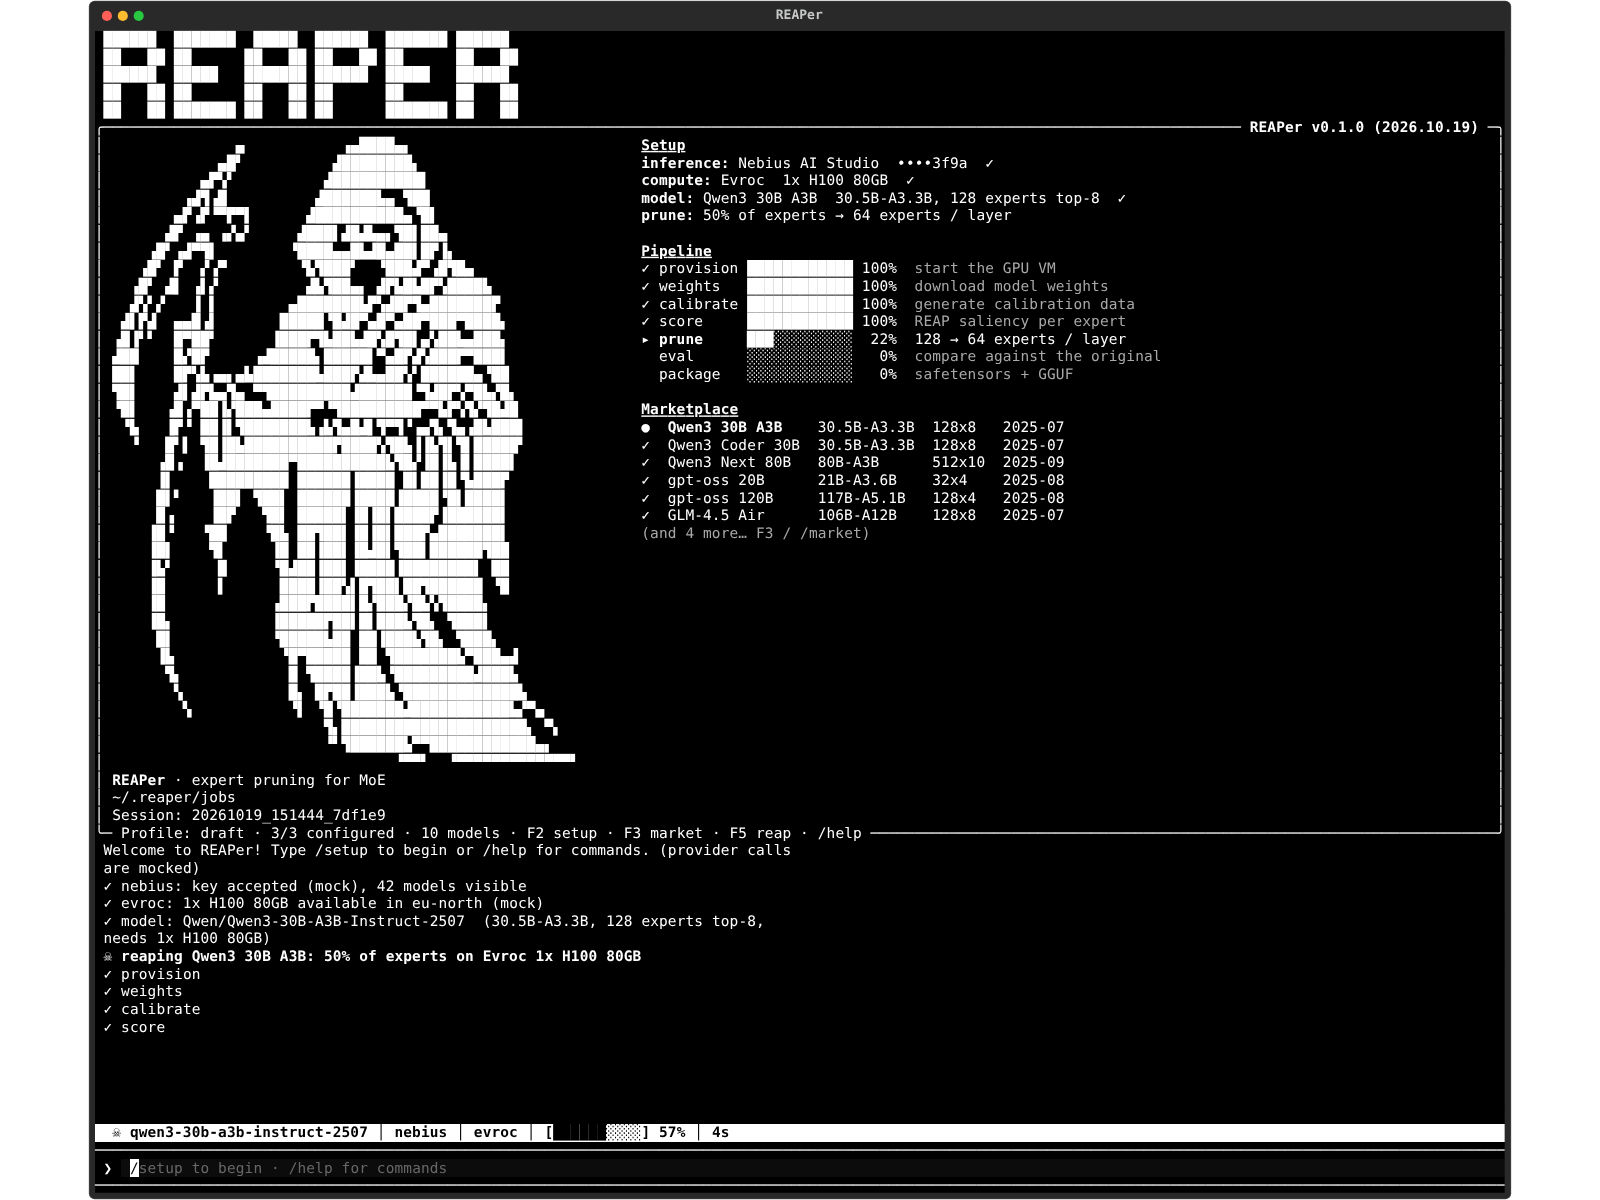
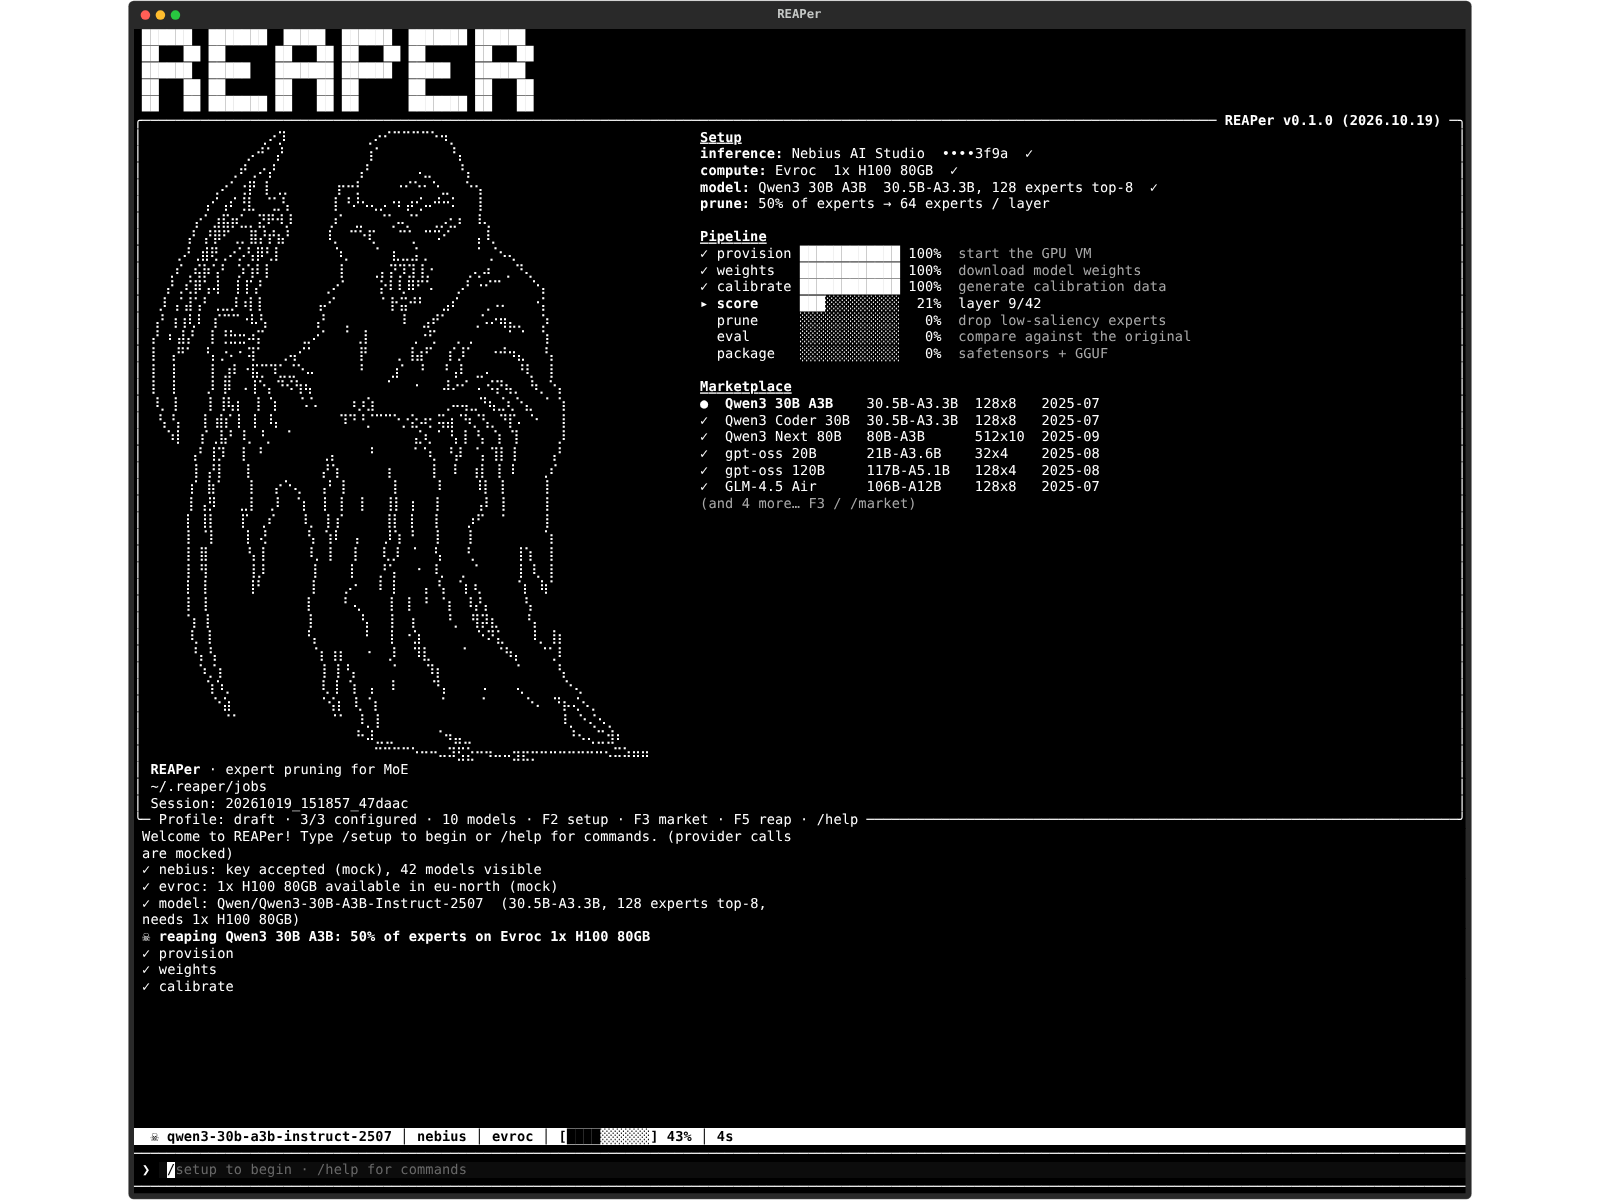
REAPer: lighter line-art reaper with a sharper skull
Trace only the white strokes inside the robe plus its contour in braille dots,
so the terminal's black reads as the robe, and enlarge the skull before tracing.

Claude-Session: https://claude.ai/code/session_01VGAZs9gHQg7S7YAJ4xnDTB

Changed region(s): [[0.0312, 0.0, 0.9688, 1.0], [0.4688, 0.0, 0.5312, 0.0308]]

diff --git a/reaper/reaper_tui/art.py b/reaper/reaper_tui/art.py
@@ -1,5 +1,7 @@
-"""Logo art. The reaper is traced from a black silhouette with quadrant blocks
-(2x2 pixels per cell); scratch tooling is not kept, regenerate from the PNG if needed."""
+"""Logo art. The reaper is traced from a black silhouette in braille dots (2x4 per
+cell): only the white strokes inside the robe and its outer contour are drawn, so
+the terminal's black is the robe. The skull is enlarged 1.7x before tracing to keep
+the face readable. Regenerate from the source image if it needs changing."""
 
 BANNER = """\
 ██████  ███████  █████  ██████  ███████ ██████
@@ -8,73 +10,76 @@ BANNER = """\
 ██   ██ ██      ██   ██ ██      ██      ██   ██
 ██   ██ ███████ ██   ██ ██      ███████ ██   ██"""
 
-# 53 x 36, used when the terminal is tall enough
+# 60 x 38, used when the terminal is tall enough
 REAPER_LARGE = """\
-              ▄           ▗▄████▄▖
-            ▄█▘          ▟████████▖
-          ▄▛▚▘          ▟██████████▌
-        ▗▟▜▗█          ▟██████▙▄ ▜██
-       ▄▛▗▛▝▀▛▀▌      ▟██████████▄▝█▌
-      ▟▛ ▗▄ ▗▞▄▘     ▟███▌▟█▟▙▄▖▜█▌██▄
-    ▗█▘▗▟▀▜▌        ▝████▄▄█▙▟█▄██▌█▛▐▖
-   ▗█▘ ▛  ▞▗▀        ▝▙▜███▘  ▝███▟▀▗█▜█▄
-  ▗█▘ ▟▌ ▗▌▞          ▟▙▜██▄▖ ▟▛▙█▙█▛▚████▙
-  ▟▚▘▞   ▐ ▌        ▄███████▙▛▚▟█▛▜▄███████▛
- ▟▌▛▟  ▄▄█▗▌       █████▝█▟█▀▄█▀▄██▀███▀████▖
-▗█▐▘▘  █▀██▘      ▐███▛▜▙██▙▟█▚█▜█▌▄▚██▙▄███▖
-▟██    █▞█▛     ▗▟█████▖█████▌▀▄█▛▟▚███▛▀███▌
-██▌    █▛▚▙▗▄▖▄▙███████▙███▛▟▙▄██▚▘██████▄▝██
-▜█▌    ▟▌▟▛▙▄▜▄ ▀▜█████████▟██████▝▜▟█▛▚▀█▙▞█▖
-▝█▌   ▗█▗▀██▐▞███▄████▛▀▝▜█████████▀▀▙▛▚▜▞▜█▟█
- ▝▙   ▐▛▝ ██▐▌▜███████▙▗▙▜▄█▟▌▜▀▜▝▗▄▜▖▜▄▗█▙███▌
-  ▝   █▘▌ ▜█▐█▙██████████▛████▚▜█▙▐▐▙▜▌▜▌█████▘
-     ▗█▗  ▐█▟███████▀██████████▙▜█▞▐█▐▙▐▌████▌
-     ▐▌    █████████ ██████▐████ █▌██▐█▝▙███▛
-     █▌▘   ▐██▌ ▜██▌ ██████▐████▐████▝█▌████▌
-     █▗    ▐█▛   ▜█▌ █████▌▐█▐█▌████▛▐██████▌
-    ▐█▝   ▝██    ▝█▙ ██▜██▌▐█▐█▌███▛▄███████▌
-    ▐█▌    ▜▌     ▐█ ██▐██▌▐█▟█▌▜██▌██████▜██
-    ▐▙▘     █     ▝█▟██▐██▌▐████▐████████▌ ██
-    ▐█      ▌      ████▐██▚▌█▜██▌██▜██████ ▝█
-    ▐█            ▗███▛████▌█▞███▞█▙▚▜████▖
-    ▐█▖           ▐█████▛██▌█▌███▙▜█▖ ▜███▌
-     █▌           ▝█████▙██ ██▐███▙▜█▖ ▜███▖
-     ▐▙            ▝█▀█████ ██ ▜███████▙▀███▄▟
-      ▜▖            █ ▜████▐██▙▝█████████▟███▙
-       ▚            █▖ █▛██▐███▙▝█████████████▙
-        ▚           ▝▌ ▝█▝███████▟███████████▙▞▀▄
-                        ▜▖█████████████████████▖ ▀▖
-                        ▝▘▜██████▙▀▀████████████▄▖
-                                ▝▀▀▘  ▝▀▀▀▀▀▀▀▀▀▀▀▀▀▘"""
+              ⢀⠔⡹          ⢀⠔⠊⠉⠉⠉⠉⠑⠲⡀
+            ⡠⠚⠁⡜          ⢰⠁        ⠘⡄
+          ⢀⠞⢀⠔⡜          ⢠⠃     ⠠⣀   ⠘⡄
+        ⢀⠔⠁⢐⡟ ⡇⢀⡀      ⡖⠒⡃    ⠐⠊⠑⠂⠑⣀  ⠑⢢
+       ⢠⠊⢠⠎⢘⣇ ⠈⣁⢣      ⡇⠘⠜⠢⢄⡠⠐⠆⡴⢊⠤⠚⠒⠅  ⢸
+      ⡔⠁⣰⣯⡶⣁⡀⣝⠟⠺⡸     ⡰⠁ ⣀  ⠈⢁⠤⡈⠁ ⢀⡠⣂⠆ ⠸⢄
+     ⡜ ⡜⡿⠋⢀⡀⣿⡜⡞⣦⠃    ⠸⡀ ⠉⠑⢏   ⠉⢁ ⠉⠩⠊   ⢠⠸⡀
+   ⢀⠜⢀⣾⢟⢀⠔⡡⢣⡿⢃⡇       ⠱⡀   ⠁ ⣆⣀⣨⢀      ⠈ ⡈⠢⢄
+  ⢀⠎⢀⢮⡷⢡⠃ ⡱⢱⠇⡇         ⡇   ⢀⡄⡝⡹⣹⢸⡐    ⢀⢄⠴  ⡀⠙⢄
+  ⡜⢀⢎⡿⢡⢼  ⡇⡏⡜        ⢀⠔⠁    ⡕⠇⢇⠿⠋⠡   ⡠⠃⠐⠊⠉    ⠑⡄
+ ⡸ ⡌⣼⢡⠃⢀⣀⡸⠰⡇⡇       ⡤⠊      ⠁⡗⣭⠚⠃  ⣠⠎   ⢀⠠⠄   ⠐⡅
+⢠⠃⢰⢰⢇⠇ ⡎⠉⠉⠐⠧⢣      ⢠⠃  ⡀      ⠸  ⣠⠞⠁   ⢀⠡⠔⢶⣄⡀  ⡱
+⡜ ⠆⣼⡜  ⡇⢘⣓⣒⠴⡍     ⣀⠔⠁  ⠁⢀⡇     ⢀⠐⢋  ⢀ ⡀    ⠁⠈  ⢱
+⡇ ⢠⠛⠁ ⠘⡄⡐⠄⠂⢽⠁  ⢀⢤⠊⠁      ⡟    ⡀⢸⣴⠋  ⡎⡸⠁  ⠐⠚⠲⣄  ⠘⡄
+⡇ ⢸    ⢸ ⣰⠇⠐⣯⡉⠹⣁⣈⠑⠤      ⠃   ⣰⠁ ⠘  ⠘⢠⠇ ⣀⠄   ⠘⢇  ⡇
+⡇ ⢸    ⡸ ⡿ ⠠⢸⠑⡄⠙⠪⢳⢦          ⠁  ⠐   ⠼⠔⠊ ⠄⠪⡝⢦⡀ ⠳⡀⠑⡄
+⠸⡀⢸    ⡇⢸⢧⡆ ⢸ ⢱   ⠡⠡    ⠰⡰⣱         ⢀⠤⢤⣀⠙⢦⣈⢆⠑⣄ ⠈ ⢱
+ ⢣⠘⡄  ⢸ ⣾⡎⢸ ⢸ ⠸⡄        ⠹⠙⠘⡈⠉⠉⠑⡐⣕⠴⡂⢭⣴⠈⠳⡈⢣⡀⠙⡏⠄⠈⠂  ⢸
+  ⠱⡇  ⡎⢀⣧⠃⠸⡀⠘⡀ ⠈                ⣌⢆⠈ ⢣⢸ ⢣ ⢱ ⢹     ⡸
+     ⢠⠃⢸⡹  ⡇ ⠃       ⢀⡄    ⠃    ⠈⠈⢆ ⠘⡼ ⠈⡄⢹⡇⢸    ⢠⠃
+     ⢸ ⡜⡇  ⢸         ⡜⢱      ⡆    ⢸  ⠇ ⢰⡇ ⡇⠸   ⢀⠎
+     ⡎ ⣷⠁   ⡇  ⡔⠑⢄  ⢠⠃⢸      ⡇    ⠸    ⠸⡇ ⡇    ⢸
+     ⡇⢠⡻   ⣀⡇ ⢀⠇ ⠈⡆ ⢸ ⢸  ⡇  ⢸⡇ ⡆  ⡇    ⢠⠇ ⡇    ⢸
+    ⢸ ⢸⡇   ⡏ ⢀⠎   ⠸⡀ ⡇⡎     ⢸⡇ ⡇  ⡇   ⡰⠋  ⠁    ⢸
+    ⢸ ⠈⡇   ⢸ ⢜     ⢣ ⢱⠇ ⢠   ⡸⢱ ⠃  ⡇   ⡇        ⠈⡆
+    ⢸ ⣿     ⢣⢸     ⠸⡀⢸  ⢸   ⢇⡸ ⠈  ⢣   ⢃     ⢸⢱  ⡇
+    ⢸ ⢻     ⢸⡸      ⡇   ⢸   ⡘⢡  ⠐ ⠸⡀ ⢀ ⠁    ⢸ ⢇ ⡇
+    ⢸ ⢸     ⢸⠃      ⡇   ⡠⠂  ⠇⢸   ⢠ ⢣ ⠈⡆⢆    ⠈⡆ ⢷⠁
+    ⢸ ⢸            ⢸    ⠃⢄   ⢸ ⢸ ⠘ ⠈⡆ ⠸⡜⡄    ⢣
+    ⠈⡆⢸            ⢸      ⢣  ⢸  ⡆   ⠘⡀ ⢻⡽⣆   ⠘⡄
+     ⢇ ⡇           ⠘⡄     ⠘  ⢸ ⠐⣱       ⠑⠝⣅   ⠸⡀⢸⡆
+     ⠘⡄⢣            ⠈⡆⢰⡆  ⠐  ⡸  ⠹⣇    ⠁   ⠈⠳⡄  ⠈⢁⠇
+      ⠱⡈⡆            ⡇⢸⠘⡄    ⠁   ⠹⡆         ⠁    ⢣
+       ⢱⠱⡀           ⢇⢸ ⢱ ⢠  ⠇    ⠙⡄    ⠄   ⢄     ⠑⢄
+        ⠑⣵           ⠈⢪⡆ ⢇⠈⡆       ⠈    ⠈     ⠑⠄ ⠙⡦⢌⠢⡀
+         ⠈⠁           ⠈⠁ ⠸⡀⡇                      ⠸⡀⠑⢌⠢⡀
+                          ⠓⠼⣀⣀     ⠈⠲⣤⣀            ⠘⠢⢄⣉⣺⠆
+                              ⠉⠉⠉⠉⠑⠒⠒⠤⠽⣫⣕⠒⠲⠤⠤⣲⣖⡒⠒⠒⠒⠒⠒⠒⠒⠢⠭⠵⠶⠶"""
 
-# 42 x 29
+# 48 x 30
 REAPER = """\
-           ▗         ▗▟███▙▖
-         ▄█▘        ▟███████▙
-       ▗▟▚▛        ▗█████▛▀▜█▌
-      ▟▀█▝█▖▌     ▄███████▙▖▜█
-    ▗█▘▗▄ ▄▗▌    ▟███▐█▞▄▙▜█ █▙
-   ▗▛ ▟▀▐▘▖      ▜███▙█▀▀▙██▐▛▗▙▖
-  ▗▛ ▟▘ ▌▐        ▜███▖  ▟███▄████▄
- ▗▛▖▞▀ ▗▘▌      ▗▟█████▙▛▚█████████▙
- ▟▐▗▘▗▄▟▄▌     ▗████▜▙█▘▟▛▙██▜██▀███▖
-▐█▌  ▐▛▜▜     ▗▟███▜▟█▙█▙▛▚█▚▚███▄██▌
-██▘  ▝█▛▙   ▄▟█████▄███▜ ▐█▙▌▟██▙▄▀█▙
-▜█    █▗▛▌▛█ ▀████████▚████▛▐██▛▀▜▙▞█
-▝█   ▐▌▞█▌▙▐█▙▟███▛▀▀███████▛▀▜▞▘▚▛██▙
- ▝▖  ▟▘ ▜▌█▞██████▙▟▟██▟▄▜█▖▟▙▙▝▙▐████
-    ▗▛▝ ▐████████████████▄▜█▝▟▞▌▐▞███▛
-    ▐▌   ███████▌▜████▜███▌█▗█▌█▐▌███
-    █▘   ▐█▛ ▜██ ▐████▐███▚███▌██▙██▌
-    █    ▟█▘  ▜█ ▐████▐▌██▐███▚█████▌
-   ▗█    █▌    █▖█████▐█▐█▐██▚██████▙
-   ▐█    ▝▌    ▐▌████▛▝███▞██▟████ ▜█
-   ▐█     ▘    ▐███▜█▙▌███▙▜██████▌▝█
-   ▐█          ▐██▙███▌█▐██▞█▞▝███▙
-    █          ███████▌█▌█████▖▝███▖
-    ▐▌         ▝██████▌█▌▐█████▙▞███▖▗
-     █          ▐▌▜███▜██▖▜██████▙███▌
-     ▝▙         ▐▌ ███▟███▖███████████▙
-                 ▘ ▝▌█████████████████▖▀▄
-                    ▀▐██████▜██████████▖
-                        ▝▀▀▀▀ ▝▀▀▀▀▀▀▀▀▀▀▀"""
+           ⡠⢔⠇       ⢀⠔⠊⠉⠉⠉⠉⠢⡀
+         ⡠⢊⢠⠃       ⢀⠎       ⠑⡄
+       ⢠⠊⢠⠃⡇      ⢀⣀⠎   ⠠⠄⠥⠢  ⠸⣀
+     ⢀⠔⢁⠎⣸⣀⠑⡊⡇    ⢸⠐⠕⠤⣀⠐⠄⠴⡠⠐⠛  ⢸
+    ⢠⠊⣠⣯⠞⢤⡰⢟⣊⠇   ⢠⠃⣀⡤⣀ ⠠⡢ ⢀⣀⡔⠔ ⠘⡄
+   ⢠⠃⣼⡜⢁⢴⢨⡾⡇⠛    ⠱⡀ ⠈⠂     ⠐    ⠑⢄
+  ⢠⠃⣼⡝⡔⠁⡪⣯⡗⠁      ⢱   ⢠⠱⢒⡆⡆⡀    ⡠ ⠉⠢⡀
+ ⢠⠃⢎⡟⡠⠇ ⣇⢣⠃      ⡠⠊   ⠈⡂⡿⠘⠁  ⢀⠄ ⠂⠉  ⠈⢢
+ ⡎⡘⡼⡜ ⣤⣜⡸⢻      ⡖⠁     ⠋⠞⠘ ⢀⠔⠁   ⢒   ⠱⡀
+⡸ ⢡⢷⠁⢸ ⠤⢈⣩⠆    ⣀⠇   ⠄     ⡴⠋    ⠈⠉⠳⠢ ⠰⡁
+⡇ ⡸⠃ ⢸ ⠭⠅⡜  ⢀⡠⠊    ⠈⡇   ⡀⣄⡔⠁⢀⢇⡎  ⠄⠦⣀  ⡇
+⡇ ⡇   ⡇⢰⠃⠸⣕⠙⣥⣉⠂⠄    ⠁  ⡰⠁⠁⠃ ⠈⡘ ⡀ ⢀ ⠈⢇ ⢕
+⢇ ⡇  ⢠⠃⡟⡀⠂⡇⢆⠈⠊⢗⠄   ⢀⢀  ⠁  ⠁  ⠓⠉⢀⣀⠒⡕⢄ ⠁⡈⢆
+⠘⡄⡇  ⡸⢰⡳⢣ ⡇⢸       ⢹⠇⠏ ⠠⠄⢄⢄⣀⣠⡚⠫⠓⣄⠑⣾ ⠁  ⢸
+ ⠘⢵  ⡇⣸⡇⢸ ⠇ ⠑            ⢀⢢⠁⠈⡇⡆⢡⠈⣆⢸    ⡸
+    ⢸ ⣿ ⠈⡆       ⣠        ⠁⢣ ⢠⠃⠈⡄⢿    ⢠⠃
+    ⡜⢰⡝  ⢣  ⢀⢄  ⢠⠃⡇    ⡇   ⢸ ⠘ ⢰⠃⢸ ⠇  ⡎
+    ⡇⠸⡇  ⢘⠄ ⡇⠈⢆ ⢸ ⡇    ⡇   ⡌   ⢀⠇    ⠘⡄
+   ⢠⠃⣾   ⡏ ⡎  ⠈⡆⢸⢠⠃    ⡇ ⡀ ⡇  ⢀⠎ ⠈    ⡇
+   ⢸ ⡻   ⢣⢸    ⢱ ⡟    ⢰⢱ ⠇ ⡇  ⠈    ⢀⡀ ⢣
+   ⢸ ⡇   ⠈⣆⠇    ⡇     ⢸⠜   ⢸       ⢸⠸⡀⢸
+   ⢸ ⡇    ⡟     ⡇  ⢈  ⠘⢸ ⡀  ⠆ ⢂⠄   ⠘⡄⠱⡇
+   ⠸⡀⡇         ⢠⠃   ⢄  ⢸ ⠃  ⠘⡀⠈⣞⡄   ⢇
+    ⡇⢣         ⢸     ⠆ ⢸ ⠸   ⠠ ⠘⡜⣆  ⠘⡄ ⡀
+    ⢱⠸⡀         ⢣ ⡄  ⠄ ⢸  ⣇   ⠁ ⠈⠈⢦  ⠑⠤⡇
+    ⠈⢆⢇         ⢠⠃⡏⡆   ⡆  ⠹⡄       ⠁   ⢇
+     ⠈⢞⡄        ⠈⢆⡇⠸⡀⠆ ⠃   ⠙⠄       ⢀  ⣀⠱⡀
+      ⠈⠺⡄        ⠈⠧ ⢇⢸      ⠈        ⠁ ⠈⡗⠬⡢⡀
+                    ⠘⢌⡄     ⠠⣀          ⠘⢄⣈⠪⢦
+                      ⠈⠉⠉⠉⠒⠒⠒⠤⠽⣳⣒⠢⠤⠤⣠⣒⠒⠒⠒⠒⠤⠭⠭⠶⠶⠤"""

diff --git a/reaper/reaper_tui/app.py b/reaper/reaper_tui/app.py
@@ -165,7 +165,7 @@ class Reaper(App):
     #banner { color: #ffffff; text-style: bold; padding: 0 1; height: auto; }
     #main { border: round #ffffff; border-title-align: right; border-title-style: bold;
             border-subtitle-align: left; height: auto; padding: 0 1; }
-    #left { width: 48; height: auto; }
+    #left { width: 52; height: auto; }
     #art { height: auto; }
     #who { height: auto; }
     #right { width: 1fr; height: auto; padding-left: 2; }
@@ -241,9 +241,9 @@ class Reaper(App):
         self.fit_art()
 
     def fit_art(self) -> None:
-        large = self.size.height >= 64 and self.size.width >= 140
+        large = self.size.height >= 66 and self.size.width >= 150
         self.query_one("#art", Static).update(REAPER_LARGE if large else REAPER)
-        self.query_one("#left").styles.width = 58 if large else 48
+        self.query_one("#left").styles.width = 64 if large else 52
 
     def say(self, msg: str, bold: bool = False) -> None:
         self.query_one("#log", RichLog).write(Text(msg, style="bold" if bold else ""))

diff --git a/reaper/README.md b/reaper/README.md
@@ -27,7 +27,7 @@ reaper                       # or: python -m reaper_tui
 | `/compute evroc <token> [n]` | set compute inline, `n` = GPU preset 1..5 |
 | `/model <name>`, `/prune <pct>` | choose a model, share of experts to drop (default 50) |
 
-The logo grows to the large reaper when the terminal is at least 140x64.
+The logo grows to the large reaper when the terminal is at least 150x66.
 
 ## Pipeline (mocked)
 
